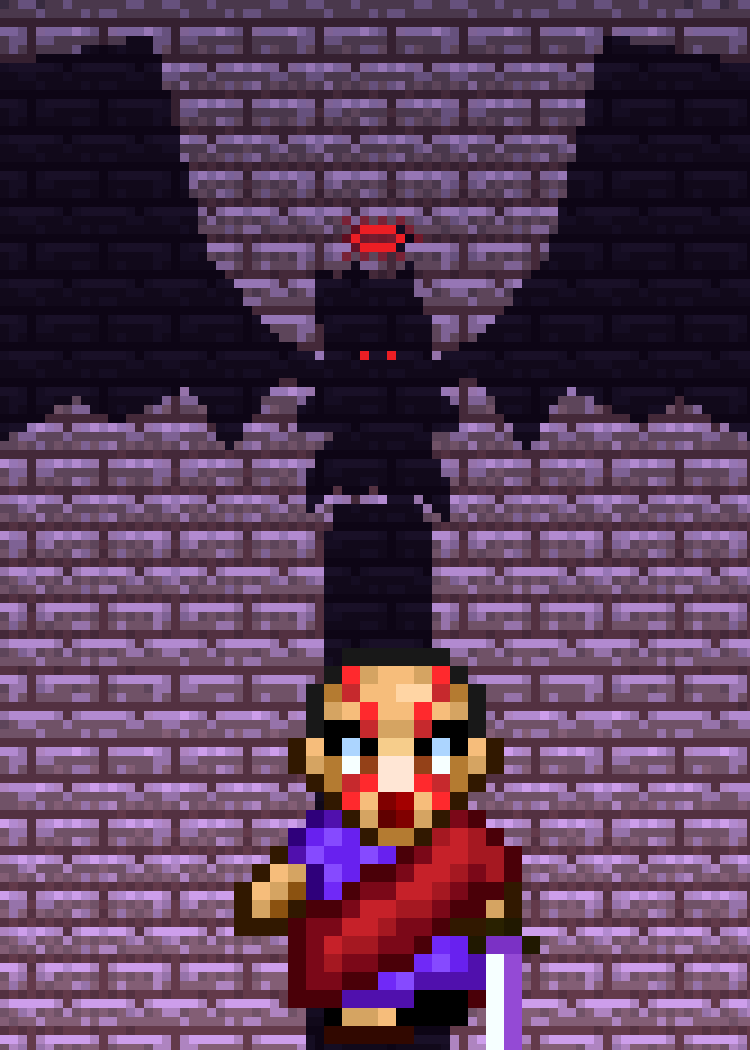
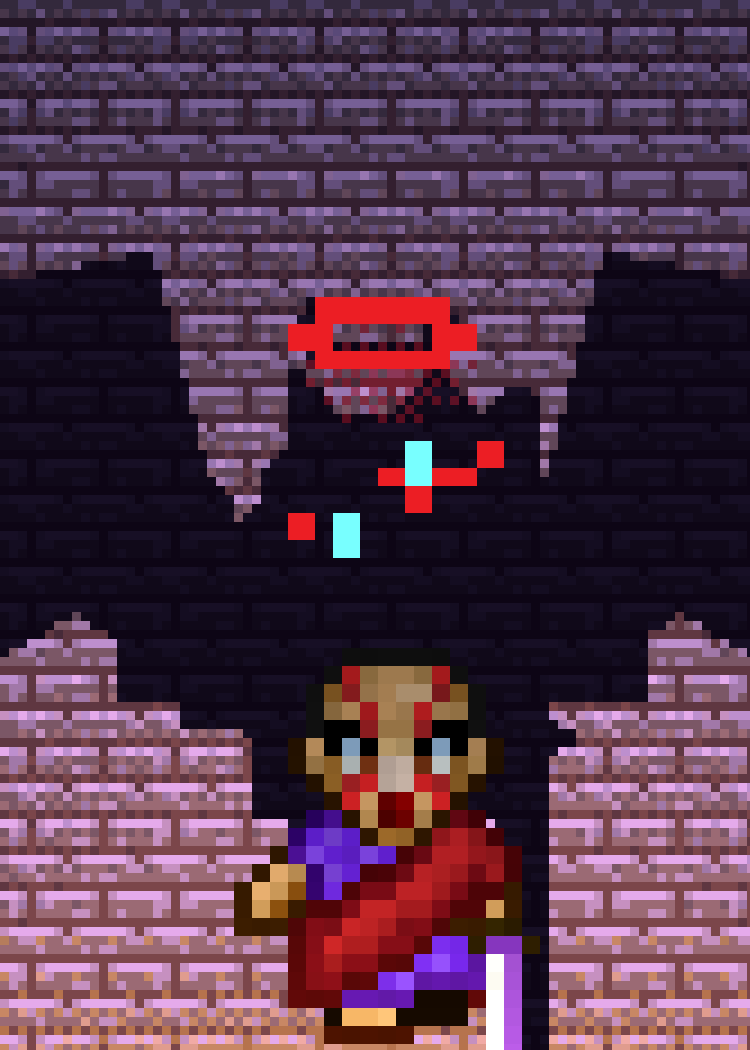
Runde 4: Zwischenstand der Entwürfe (in Arbeit)
Claude-Session: https://claude.ai/code/session_01TEnvTzH2xD44R6Unjv7vDo

diff --git a/data/sleeve-proposals/runde4/generator/s30_inquisitors_shadow.py b/data/sleeve-proposals/runde4/generator/s30_inquisitors_shadow.py
@@ -1,90 +1,149 @@
 # -*- coding: utf-8 -*-
 """30 The Inquisitor's Shadow – Schattenbild: der gütige alte Großinquisitor Karian steht (als Halbfigur, wie
-auf seiner Karte) vorn im Licht einer Fackel, die von unten vorn gegen die Kirchenmauer strahlt. Sein riesiger
-Schatten auf der Wand verrät seine wahre Gestalt: den Dämon mit rotem Heiligenschein und Fledermausflügeln.
+auf seiner Karte) vorn im Schein einer Fackel, die vom unteren Bildrand her gegen die Kirchenmauer leuchtet;
+sein Gesicht ist von unten angestrahlt. Hinter ihm wächst sein vergrößerter Schatten die Wand hinauf: unten
+seine eigenen Schultern, Arme und sein Stab – oben verwandelt sich der Schatten in seine Dämonengestalt mit
+Hörnern, rotem Heiligenschein, glühenden Augen und riesigen Fledermausflügeln, die aus den Schultern wachsen.
 
 Quellen (MotiveHawaii.xcf):
   Ebene 240 „Karian“ – der Großinquisitor (Karte „Grand Inquisitor Karian“), gegen „Sichtbar #47“/„#46“
       geprüft; die Figur ist schon im Original eine Halbfigur (endet an der Robe) → vom unteren Bildrand
-      angeschnitten wie der Vampir in „Count of the Deep“.
-  Ebene 233 „Curse“ – Karians Dämonengestalt mit Flügeln und Heiligenschein (Karte „Curse“), als Schattenriss;
-      nur der rote Heiligenschein und die zwei roten Augen
-      (Original-Pixel) bleiben farbig und glühen.
-  Ebene 250 „Ebene #5“ – Kirchenmauer (violette Ziegel, Kachel 16×8), nach Licht umgefärbt.
-Selbst gezeichnet: Licht-/Schattenverlauf, Verbindung des Schattens nach unten (gestreckter Schatten des Körpers).
+      angeschnitten wie der Vampir in „Count of the Deep“. Außerdem Umriss für den Schattenkörper.
+  Ebene 238 „Karian #6“ – Karians Dämonengestalt (gleiche Karte): Kopf mit Hörnern, Heiligenschein und
+      türkisen Augen als Schattenkopf (Heiligenschein + Augen in Originalfarbe, glühend).
+  Ebene 233 „Curse“ – die Fledermausflügel der Dämonengestalt (Karte „Curse“), nur die Flügel, als Schattenriss.
+  Ebene 250 „Ebene #5“ – Kirchenmauer (violette Ziegel, Kachel 16×8), nach Fackellicht umgefärbt.
+Selbst gezeichnet: Fackelschein, Licht/Schatten. Der vergrößerte Schatten ist ein gezeichneter Effekt: die Umrisse
+von Ebene 240/238 werden weich auf das 3×-Raster der Mauer übertragen (Faktor 2,6), damit der Schatten dieselbe
+Pixelgröße wie die Mauer hat.
 
 Skalierung:
-  Hintergrund (Mauer + Schatten): 3× (84×117-Raster)
+  Hintergrund (Mauer, Fackelschein, Schatten, Flügel): 3× (84×117-Raster)
   Vordergrund (Karian): 6× (42×59-Raster)
 """
+import cv2
 from s26_30_fkit import *  # noqa
 
 HW = 'MotiveHawaii'
-
-# ================================ Mauer + Schatten 3× ===========================================================
 G = Ebene(3)                                    # 84 × 117
 gw, gh = G.w, G.h
-tile = layer(HW, 250)[312:320, 352:368, :3].astype(float)     # 8 × 16 Ziegel
-LX, LY = 42, 150                               # Lichtquelle: unten vorn, außerhalb des Bildes
+CX = 42                                         # Mittelachse
 
-def lightv(x, y):
-    d = math.hypot((x + .5 - LX) * 0.8, y + .5 - LY)
-    return max(0.0, min(1.0, 1.2 - d / 190))
+# ---------------------------------------------------------------- Schattenmaske (3×-Raster)
+priest = sprite('f30_karian', HW, [240])        # 31 × 17
+demon = sprite('f30_demon', HW, [238])          # 29 × 20
+curse = sprite('f30_curse', HW, [233])          # 54 × 176
+SF = 2.6                                        # Vergrößerung des Schattens (Rasterzellen je Original-Pixel)
 
-# Schattenriss: Curse-Sprite 1 Pixel = 1 Rasterzelle, Figur mittig
-curse = sprite('f30_curse', HW, [233])          # 54 × 176, Figurmitte x≈87.5
+def smooth_mask(m, f):
+    """Umriss weich um f vergrößern und auf dem Zielraster schwellen (gezeichneter Schatten, keine Blockpixel)."""
+    h, w = m.shape
+    big = cv2.resize(m.astype(np.float32), (int(round(w * f)), int(round(h * f))), interpolation=cv2.INTER_LINEAR)
+    return big > 0.5
+
+shadow = np.zeros((gh, gw), bool)
+glow = np.zeros((gh, gw, 3), np.uint8); glow_m = np.zeros((gh, gw), bool)
+
+def stamp(mask, x0, y0, colors=None):
+    h, w = mask.shape
+    for j in range(h):
+        for i in range(w):
+            X, Y = x0 + i, y0 + j
+            if 0 <= X < gw and 0 <= Y < gh and mask[j, i]:
+                if colors is not None and colors[j, i, 3] > 0:
+                    glow[Y, X] = colors[j, i, :3]; glow_m[Y, X] = True
+                else:
+                    shadow[Y, X] = True
+
+# (a) Körper = Karians eigener Umriss ab dem Hals (Zeile 10: Schultern, Arme, Robe, Stab)
+NECK_P = 10
+body = priest[NECK_P:, :, 3] > 0
+bm = smooth_mask(body, SF)
+BY = gh - bm.shape[0] + 3                       # läuft unten hinter Karian aus dem Bild
+BX = CX - int(round(8.5 * SF))
+stamp(bm, BX, BY)
+neck_y = BY
+
+# (b) Kopf = Dämonenkopf (Zeilen 0–12: Heiligenschein, Hörner, Gesicht), auf den Hals gesetzt
+NECK_D = 13
+head = demon[:NECK_D, :, 3] > 0
+hm = smooth_mask(head, SF)
+col = demon[:NECK_D].copy()
+red = (col[..., 0] > 150) & (col[..., 1] < 60)                     # Heiligenschein
+cyan = (col[..., 2] > 200) & (col[..., 0] < 180)                   # Augen
+keep = np.zeros_like(col); keep[red] = col[red]; keep[cyan] = col[cyan]
+keep[red, :3] = (236, 30, 36); keep[cyan, :3] = (120, 255, 255)
+kbig = cv2.resize(keep, (hm.shape[1], hm.shape[0]), interpolation=cv2.INTER_NEAREST)
+HX = CX - int(round(10 * SF))
+HY = neck_y - hm.shape[0] + 2
+stamp(hm | (kbig[..., 3] > 0), HX, HY, kbig)
+
+# (c) Flügel = Flügel der Curse-Gestalt (ohne ihren Körper), 1 Original-Pixel = 1 Zelle, Wurzeln an den Schultern
 cm = curse[..., 3] > 0
-halo = (curse[..., 0] > 200) & (curse[..., 1] < 60) & cm
-# die beiden roten Augen der Dämonengestalt (Sprite-Pixel a70001) glühen im Schatten wie der Heiligenschein
-eyes = (curse[..., 0] > 150) & (curse[..., 1] < 10) & (curse[..., 2] < 10) & cm
-eyes[:30] = False
-SX, SY = int(round(42 - 87.5)), 4              # Lage im Raster
-shadow = np.zeros((gh, gw), bool); halo_m = np.zeros((gh, gw), bool)
-for j in range(curse.shape[0]):
-    for i in range(curse.shape[1]):
-        X, Y = SX + i, SY + j
-        if 0 <= X < gw and 0 <= Y < gh:
-            if halo[j, i] or eyes[j, i]: halo_m[Y, X] = True
-            elif cm[j, i]: shadow[Y, X] = True
-# gestreckter Schatten des Unterkörpers: von der Figur bis hinter Karian nach unten (verjüngt, Robe)
-bot = SY + curse.shape[0]
-for Y in range(bot - 2, gh):
-    t = (Y - bot) / max(1, gh - bot)
-    hw = 5 + 3 * t
-    for X in range(int(42 - hw), int(42 + hw) + 1):
-        if 0 <= X < gw: shadow[Y, X] = True
+cm[:, 72:104] = False                           # Körper der Curse-Figur weglassen, Flügel bleiben
+# Flügelwurzeln liegen in der Curse-Figur bei y≈40; auf Schulterhöhe des Schattens setzen (+ leicht darüber)
+WY = neck_y + int(1.5 * SF) - 40
+WX = CX - 88
+stamp(cm, WX, WY)
+# Verbindung Flügelwurzel → Schulter (die Flügelarme laufen in die Schultern hinein)
+for Y in range(neck_y - 2, neck_y + int(5 * SF)):
+    for X in range(CX - 34, CX + 35):
+        if abs(X - CX) > 12 and abs(X - CX) < 30 and Y > neck_y + (30 - abs(X - CX)) * 0.25 - 2:
+            if 0 <= X < gw and 0 <= Y < gh: shadow[Y, X] = True
 
+# ---------------------------------------------------------------- Mauer mit Fackellicht von unten
+tile = layer(HW, 250)[312:320, 352:368, :3].astype(float)     # 8 × 16 Ziegel
+def lightv(x, y):                               # Fackel unter dem unteren Bildrand, Mitte
+    d = math.hypot((x + .5 - CX) * 0.75, y + .5 - (gh + 12))
+    return max(0.0, min(1.0, 1.25 - d / 150))
 for y in range(gh):
     for x in range(gw):
         c = tile[y % 8, x % 16]
         l = lightv(x, y)
-        q = min(1.0, math.floor(l * 5 + B4[y % 4, x % 4]) / 5)
+        q = min(1.0, math.floor(l * 6 + B4[y % 4, x % 4]) / 6)
         if shadow[y, x]:
-            col = c * 0.14 + np.array([8, 2, 14])
+            v = c * 0.13 + np.array([8, 2, 14])
         else:
-            col = c * (0.55 + 0.75 * q) + np.array([46, 22, 0]) * q     # warmes Fackellicht
-        G.a[y, x, :3] = np.clip(col, 0, 255).astype(np.uint8); G.a[y, x, 3] = 255
+            v = c * (0.35 + 0.95 * q) + np.array([70, 34, 0]) * q ** 2   # warmer Fackelschein
+        G.a[y, x, :3] = np.clip(v, 0, 255).astype(np.uint8); G.a[y, x, 3] = 255
+# Fackelschein am unteren Rand: orange Glut, nach oben geordnet ausgedithert
+for y in range(gh - 14, gh):
+    for x in range(gw):
+        t = (y - (gh - 14)) / 14                # 0 oben … 1 unten
+        a = t * t * (1 - abs(x + .5 - CX) / 60)
+        if a > B4[y % 4, x % 4] * 0.9 and not shadow[y, x]:
+            G.a[y, x, :3] = mix(G.a[y, x, :3], (255, 170, 80), 0.45)
+# glühender Heiligenschein + Augen, schwacher roter Hof um den Heiligenschein
 for y in range(gh):
     for x in range(gw):
-        if halo_m[y, x]: G.a[y, x, :3] = (236, 30, 36)
-# schwacher roter Schein um den Heiligenschein
-hy, hx = np.where(halo_m[:SY + 25])
+        if glow_m[y, x]: G.a[y, x, :3] = glow[y, x]
+hy, hx = np.where(glow_m & (glow[..., 0] > 200))
 if len(hy):
     cy, cx = hy.mean(), hx.mean()
-    for y in range(int(cy) - 4, int(cy) + 5):
-        for x in range(int(cx) - 6, int(cx) + 7):
-            if 0 <= x < gw and 0 <= y < gh and not halo_m[y, x]:
-                d = math.hypot((x - cx) / 6, (y - cy) / 3.5)
+    for y in range(int(cy) - 6, int(cy) + 7):
+        for x in range(int(cx) - 11, int(cx) + 12):
+            if 0 <= x < gw and 0 <= y < gh and not glow_m[y, x]:
+                d = math.hypot((x - cx) / 11, (y - cy) / 6)
                 if d < 1 and (1 - d) * 0.9 > B4[y % 4, x % 4]:
-                    G.a[y, x, :3] = mix(G.a[y, x, :3], (150, 20, 40), 0.6)
+                    G.a[y, x, :3] = mix(G.a[y, x, :3], (150, 20, 40), 0.55)
 
 cv = Canvas(W, H)
 onto(cv, G)
 
-# ================================ Karian 6× (Halbfigur, vom unteren Rand angeschnitten) =======================
+# ---------------------------------------------------------------- Karian 6×, von unten angestrahlt
 F = Ebene(6)                                    # 42 × 59
-kar = sprite('f30_karian', HW, [240])          # 31 × 17; Robe endet in Zeile 23, darunter nur der Stab
-F.put(kar, 21 - kar.shape[1] // 2, 59 - 23)
+k = priest.copy().astype(float)
+h = k.shape[0]
+for j in range(h):
+    # Robe/Gesicht unten warm aufgehellt, Schädeldecke im Dunkel (Unterlicht)
+    t = j / 23.0                                # 0 Scheitel … 1 Robenende
+    f = 0.62 + 0.5 * min(1.0, t)
+    for i in range(k.shape[1]):
+        if k[j, i, 3] == 0: continue
+        ff = f if (f * 4 + B4[j % 4, i % 4]) % 1 > 0.25 else f - 0.06
+        k[j, i, :3] = np.clip(k[j, i, :3] * ff + np.array([40, 18, 0]) * max(0, t - 0.3), 0, 255)
+k = k.astype(np.uint8)
+F.put(k, 21 - k.shape[1] // 2, 59 - 23)
 onto(cv, F)
 
 print(save(cv, '30_inquisitors_shadow.png'))

diff --git a/data/sleeve-proposals/runde4/notes_I.md b/data/sleeve-proposals/runde4/notes_I.md
@@ -2,7 +2,7 @@
 
 41 | Down the Rabbit Hole | Froschperspektive in einen selbst gezeichneten Erdschacht (perspektivische Erdschichten, jede eine Stufe dunkler): Carris, das weiße Kaninchen, fällt groß auf uns zu, die goldene Taschenuhr hängt an ihrer Kette an seiner Pfote, weiter oben fällt die kleine Maus, ganz oben leuchtet die grasgesäumte Öffnung zum Himmel | Schacht/Himmel/Maus 2×, Kaninchen + Uhr 5× | MotiveBritain: 268 „Carris“, 266 „Ebene #24“ (Taschenuhr), 267 „Little Carris“, 271 „Hintergrund“ (Erdkachel 16×16); Karte „Carris, the Time Keeper“ | Rahmen: moulding/wood/amber
 42 | Through the Keyhole | Blick durch ein großes Schlüsselloch in einer Messing-Beschlagplatte auf dunkler Eichentür: im erleuchteten Thronsaal dahinter hat sich der gekrönte Corgi der Kaiserin auf den goldenen Thron gesetzt, der rote Teppich führt im Schlitz auf ihn zu; rechts hängt der Geisterschlüssel an einem Nagel | Thronsaal + Corgi 3×, Tür/Platte/Schlüssel (Vordergrund) 4× | MotiveBritain: 176 „Ebene #75“ (Thronsaal, Lücke hinter dem Thron mit Mauerwerk derselben Ebene gefüllt), 212/211/209 (Corgi + Krönchen + Glanz, geprüft gegen „Sichtbar #8“), 79 „Ebene #162“ (Schlüssel) | Rahmen: double/ebony/ruby
-43 | Threads of Fate | Die drei verhüllten Nornen stehen nachts auf dem Eisplateau; die linke spinnt den goldenen Schicksalsfaden über die Brust der mittleren zur rechten, vorn leuchtet die Kristallkugel mit ihrer Vision; am Himmel mit Milchstraße steht das Sternbild der Weltenschlange | Himmel/Hügel/Eisboden/Sternbild 2×, Nornen + Faden + Kugel 4× | MotiveCoolhalla: 167 „Ebene #52“ (linke Norne mit Händen), 171 „Ebene #44“ (mittlere + rechte Norne, per parts getrennt; pixelgleich mit „Sichtbar #16“), 165 „Ebene #93“ (Kristallkugel), 255/256 (Eisboden); Karten „The Nornstellar Foretellers of Coolness“, „Prophecy of Coolness“ | Rahmen: cosmic/cosmic/topaz
+43 | Threads of Fate | Die drei verhüllten Nornen stehen nachts nebeneinander auf dem Eisplateau: die linke spinnt aus ihrem Faserbausch den goldenen Schicksalsfaden, er hängt locker durch zur mittleren, die ihn zwischen ihren Händen gespannt hält (misst), und weiter zur rechten, in deren Hand er endet – ein abgeschnittenes Stück hängt herab (schneidet). Vorn und tiefer leuchtet die Kristallkugel, ohne eine Norne zu verdecken; am Himmel mit Milchstraße das Sternbild der Weltenschlange | Himmel/Hügel/Eisboden/Sternbild 2×, Nornen + Faden (1 Pixel, hell/dunkel abwechselnd) + Kugel 3× | MotiveCoolhalla: 167 „Ebene #52“ (linke Norne mit Faserbausch), 171 „Ebene #44“ (mittlere + rechte Norne, per parts getrennt; pixelgleich mit „Sichtbar #16“; je 1 schwarzes Handpixel an den Ärmelenden ergänzt), 165 „Ebene #93“ (Kristallkugel), 255/256 (Eisboden); Karten „The Nornstellar Foretellers of Coolness“, „Prophecy of Coolness“ | Rahmen: cosmic/cosmic/topaz
 44 | Frost Nest | Morgengrauen über dem Wolkenmeer: das eisblaue Drachenei liegt groß zwischen zwei Felsbrocken auf einem verschneiten Gipfel, die aufgehende Sonne steht genau dahinter (Gegenlicht-Kante am Ei), ein erster Riss glimmt kalt-blau | Himmel/Sonne/Wolkenmeer 2×, Gipfel + Felsen + Ei 4× | MotiveCoolhalla: 3 „Icy Dragonegg“ (Riss nachgezeichnet), 41 „Ebene #182“ (Felsbrocken, gespiegelt), 98 „Ebene #130“ (Felsplateau-Kachel); Karte „Icy Dragonegg“ | Rahmen: icicle/ice/sapphire
 45 | Crystal Heist | Nachts im Kronjuwelen-Saal: ein Lichtkegel fällt auf die Glasvitrine auf ihrer Säule, darin schwebt der große violette Kristall; von links schleicht Jack aus dem Halbdunkel heran und berührt schon fast das Glas, durch ein Gitterfenster fällt ein Mondstrahl | Saal (Wand, Teppich, Fenster) 2×, Jack + Vitrine + Sockel + Kristall 4× | MotiveBritain: 168 „Jack“ (geprüft gegen „Sichtbar #22“), 190 „Ebene #62“ (Kristall), 146 „Ebene #144“ (Säule, gekürzt + gespiegeltes Kapitell als Fuß), 176 „Ebene #75“ (Mauer-/Teppichkachel, Gitterfenster) | Rahmen: industrial/iron/amethyst
 
@@ -10,4 +10,5 @@ Hinweise:
 - Hilfsmodul: generator/kit41_45.py (Ebenen auf eigenem Raster `G(k)`, einmal hochskaliert in `flatten`; Schatten/Glas nachträglich mit Masken im Raster der werfenden Ebene).
 - 44 wurde gegenüber dem ersten Eintrag in concepts.md von Luftbild auf Seitenansicht geändert (Korrekturzeile dort angehängt), weil 01 und 13 schon Draufsichten sind.
 - 45: die im Konzept genannten roten Alarmstrahlen wurden wieder entfernt (wirkten als dicke 4×-Linien unruhig).
+- 43 nach Review überarbeitet: Nornen von 4× auf 3× verkleinert, damit sie mit Abstand nebeneinander stehen und der Faden in zwei durchhängenden Bögen dazwischen sichtbar ist; es gibt in den Coolhalla-Ebenen kein Schneidwerkzeug, daher zeigt das herabhängende abgeschnittene Fadenende das Schneiden.
 - Keine Overlays (kein Element ragt über den Rahmen).
